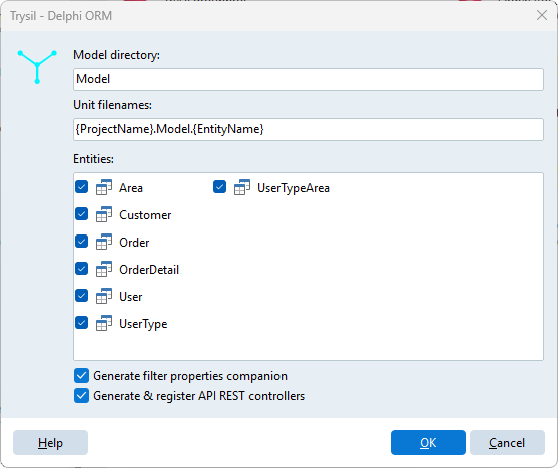
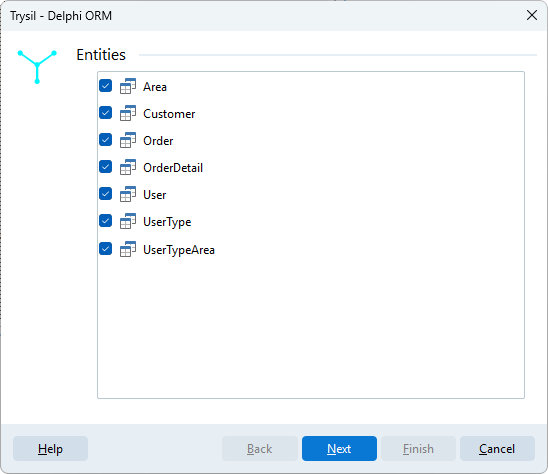
docs(expert): document the generation wizard and the settings tree

diff --git a/docs/tooling/expert/generate-model.md b/docs/tooling/expert/generate-model.md
@@ -1,24 +1,59 @@
 # Generate entity model
 
-**Trysil > Generate entity model** writes a Delphi unit for each entity of the model and adds it to the active project.
+**Trysil > Generate entity model** writes Delphi units for the entities of the model and adds them to the active project: the entity classes, the [event units](#event-units) and, in an API REST project, the [controllers](#api-rest-controllers).
 
-## The dialog
+## The wizard
 
-![Generate entity model](images/generate-model.png)
+The dialog is a wizard of four pages: **Back** and **Next** move between them, **Finish** generates. What you choose is remembered for the project in `__trysil\__settings\settings.json`; the defaults come from [Settings](settings.md).
 
-| Field | Meaning |
-|---|---|
-| Model directory | Folder of the units, relative to the project folder. Default `Model` |
-| Unit filenames | Pattern of the unit names. Default `{ProjectName}.Model.{EntityName}` |
-| Entities | The entities to generate, all ticked by default. Right click for **Select all entities** / **Unselect all entities** |
-| Generate filter properties companion | Adds a `T<Entity>Properties` record to each unit |
-| Generate & register API REST controllers | Only for projects created by the [API REST wizard](api-rest.md) |
+### Entities
 
-The unit name pattern accepts two placeholders, ignoring case: `{ProjectName}`, the name of the `.dproj` without extension, and `{EntityName}`. For the project `OrdersAPI` and the entity `Order` the default gives `OrdersAPI.Model.Order`. Nested folders are allowed in **Model directory**, for example `Source/Model`, and are created when missing.
+![Entities page](images/generate-model.png)
 
-The defaults come from [Settings](settings.md). What you choose here is remembered for the project in `__trysil\__settings\settings.json`.
+The entities to generate, all ticked by default. Right click for **Select all entities** / **Unselect all entities**. **Next** asks for at least one.
 
-If a unit with the same name is already in the project, the Expert lists the units that would be overwritten and asks before continuing.
+### Models
+
+![Models page](images/generate-model-models.png)
+
+| Field | Default | Meaning |
+|---|---|---|
+| Generate models | Ticked | Writes the entity units |
+| Directory | `Model` | Folder of the units, relative to the project folder |
+| Unit filenames | `{ProjectName}.Model.{EntityName}` | Pattern of the unit names |
+| Generate filter properties companion | Ticked | Adds a `T<Entity>Properties` record to each unit |
+
+**Unit filenames** is used even with **Generate models** not ticked: the event and controller units name the model unit in their `uses` clause.
+
+### Events
+
+![Events page](images/generate-model-events.png)
+
+| Field | Default | Meaning |
+|---|---|---|
+| Generate & register events | Not ticked | Writes an [event unit](#event-units) for each entity that has none yet |
+| Directory | `Events` | Folder of the units, relative to the project folder |
+| Unit filenames | `{ProjectName}.Event.{EntityName}` | Pattern of the unit names |
+
+### Controllers
+
+![Controllers page](images/generate-model-controllers.png)
+
+Shown only in a project created by the [API REST wizard](api-rest.md); in any other project the wizard skips it and **Finish** is on the Events page.
+
+| Field | Default | Meaning |
+|---|---|---|
+| Generate & register controllers | Ticked | Writes and registers the [controllers](#api-rest-controllers) |
+| Directory | `Controllers` | Folder of the units, relative to the project folder |
+| Unit filenames | `{ProjectName}.Controller.{EntityName}` | Pattern of the unit names |
+
+### Finish
+
+At least one of models, events and controllers has to be ticked. Each can be generated on its own: the events or the controllers of entities whose model units are already there, for instance.
+
+The unit name patterns accept two placeholders, ignoring case: `{ProjectName}`, the name of the `.dproj` without extension, and `{EntityName}`. For the project `OrdersAPI` and the entity `Order` the default gives `OrdersAPI.Model.Order`. Nested folders are allowed in the directories, for example `Source/Model`, and are created when missing.
+
+If a model or controller unit with the same name is already in the project, the Expert lists the units that would be overwritten and asks before continuing. Event units are never overwritten.
 
 ## What is generated
 
@@ -96,7 +131,45 @@ When the database changes, regenerate the units of the entities that changed: th
 - calculated properties and helper methods;
 - an event class tied to the entity with `[TInsertEvent]`, `[TUpdateEvent]` or `[TDeleteEvent]`, which has to live in the unit of the entity.
 
-Keep the model units as the Expert writes them, and put the code you write in units of your own. Business rules go in a `TTEntityEvents<T>` registered with `TTEventRegistration.RegisterEvents<T, E>` from the unit that holds them: the entity knows nothing of it, so regenerating the entity leaves it untouched. See [Registering events without attributes](../../guide/events.md#registering-events-without-attributes).
+Keep the model units as the Expert writes them, and put the code you write in units of your own. Business rules go in a `TTEntityEvents<T>` registered with `TTEventRegistration.RegisterEvents<T, E>` from the unit that holds them: the entity knows nothing of it, so regenerating the entity leaves it untouched. See [Registering events without attributes](../../guide/events.md#registering-events-without-attributes). The **Events** page of the wizard writes that unit for you.
+
+## Event units
+
+With **Generate & register events** ticked, the Expert writes for each selected entity a unit with an empty `TTEntityEvents<T>` and its registration:
+
+```delphi
+unit OrdersAPI.Event.Order;
+
+interface
+
+uses
+  System.Classes,
+  System.SysUtils,
+  Trysil.Exceptions,
+  Trysil.Events,
+
+  OrdersAPI.Model.Order;
+
+type
+
+{ TOrderEvents }
+
+  TOrderEvents = class(TTEntityEvents<TOrder>)
+  end;
+
+implementation
+
+initialization
+  TTEventRegistration.RegisterEvents<TOrder, TOrderEvents>;
+
+end.
+```
+
+Override `BeforeInsert`, `AfterInsert`, `BeforeUpdate`, `AfterUpdate`, `BeforeDelete` or `AfterDelete` in it to write the rules.
+
+- **An event unit is written once.** If the file is already on disk, or the unit is already in the project, the entity is skipped without a question: the unit is yours from the moment it is created.
+- **The unit is added to the project.** The registration runs in its `initialization`, and a unit outside the project would never run it: its events would silently not fire. Do not remove it from the project.
+- **Generate it only where there are rules.** An entity with registered events creates an event object at every insert, update and delete, even when the class is empty.
 
 ## Filter properties companion
 
@@ -135,9 +208,9 @@ Entity and entity list columns have no entry in the record.
 
 ## API REST controllers
 
-In a project created by the [API REST wizard](api-rest.md) the option **Generate & register API REST controllers** is enabled; in any other project it is greyed out. When ticked, for each selected entity the Expert also:
+In a project created by the [API REST wizard](api-rest.md) the **Controllers** page is shown; in any other project it is skipped. With **Generate & register controllers** ticked, for each selected entity the Expert:
 
-1. writes a controller unit `<Project>.Controller.<Entity>` in the `Controllers` folder of the project:
+1. writes a controller unit, named and placed as the **Controllers** page says (by default `<Project>.Controller.<Entity>` in the `Controllers` folder):
 
     ```delphi
     [TUri('/order')]
@@ -147,4 +220,4 @@ In a project created by the [API REST wizard](api-rest.md) the option **Generate
 
     The URI is the entity name in lower case;
 
-2. opens `<Project>.Http` and registers the controllers: it adds the units to its `uses` clause and a `Server.RegisterController<TOrderController>();` line to `RegisterEntityControllers`. Units and registrations already there are not added again, so the model can be regenerated with the option ticked.
+2. opens `<Project>.Http` and registers the controllers: it adds the units to its `uses` clause and a `Server.RegisterController<TOrderController>();` line to `RegisterEntityControllers`. Units and registrations already there are not added again, so the controllers can be regenerated.

diff --git a/CHANGELOG.md b/CHANGELOG.md
@@ -35,6 +35,12 @@ Not released yet: what this section describes is on `master` and in no tag.
 
 - **`TTHttpServer<C>.AddBindAddress` chooses the addresses the server listens on.** `Start` created a single binding with the port alone, so the server listened on every IPv4 interface and nothing in the API could narrow it: the documentation recommended binding to loopback behind a reverse proxy, and there was no way to do it, so anyone who could reach the port from the network walked past the proxy - no TLS, no path filtering. `AddBindAddress` takes an IPv4 or IPv6 literal (`'127.0.0.1'`, `'::1'`) and can be called once per address; `Start` binds each of them on `Port`, with the IP version the address carries. A host name, an address with a port or brackets, anything that is not an IP literal, an address added twice, and a call after `Start` raise `ETHttpServerException`, with the new messages `SNotValidBindAddress` and `SDuplicateBindAddress` - a host that translates the framework messages has two strings to add. With no address added the server binds as before, on every IPv4 interface: nothing changes for code that does not call it
 
+### Expert
+
+- **The "Generate entity model" dialog is a wizard and writes the event units too.** Its pages are Entities, Models, Events and Controllers, the last shown only in a project created by the API REST wizard. **Generate & register events** writes, for each selected entity that has none yet, a unit with an empty `TTEntityEvents<T>` and its `TTEventRegistration.RegisterEvents<T, E>` in the `initialization`, and adds it to the project: it is never overwritten, so the business rules written in it survive the regeneration of the model. Models, events and controllers can each be generated on its own, and at least one is asked for.
+- **Folders and unit names of events and controllers are settings.** Like the models, each has a directory and a unit filename pattern, `Events` / `{ProjectName}.Event.{EntityName}` and `Controllers` / `{ProjectName}.Controller.{EntityName}` by default: in **Settings** for every project, in the wizard for the current one. The controllers had both written in the code. The Settings dialog chooses its page from a tree on the left.
+- **The panels of the Expert dialogs take the colours they were designed with.** The content area had the colour of the buttons bar and the buttons bar that of the content area.
+
 ## 2.0.0 - Audit Integrity, Directional JSon Attributes & Fail-Safe Startup
 
 *2026-09-20*

diff --git a/docs/tooling/expert/settings.md b/docs/tooling/expert/settings.md
@@ -4,14 +4,20 @@
 
 ![Settings](images/settings.png)
 
-| Group | Field | Default | Meaning |
+The tree on the left chooses the page: **Trysil**, **Models**, **Events** or **Controllers**.
+
+| Page | Field | Default | Meaning |
 |---|---|---|---|
 | Trysil | Directory | `__trysil` | Folder, relative to the project, where the entity model is saved |
-| Entities | Directory | `Model` | Default folder of the generated entity units |
-| Entities | Unit filenames | `{ProjectName}.Model.{EntityName}` | Default pattern of the unit names |
+| Models | Directory | `Model` | Default folder of the generated entity units |
+| Models | Unit filenames | `{ProjectName}.Model.{EntityName}` | Default pattern of the unit names |
+| Events | Directory | `Events` | Default folder of the generated event units |
+| Events | Unit filenames | `{ProjectName}.Event.{EntityName}` | Default pattern of the event unit names |
+| Controllers | Directory | `Controllers` | Default folder of the generated controller units |
+| Controllers | Unit filenames | `{ProjectName}.Controller.{EntityName}` | Default pattern of the controller unit names |
 
 ## Defaults and project settings
 
-**Entities > Directory** and **Unit filenames** are only the starting values. The first time you confirm [Generate entity model](generate-model.md) in a project, the values in that dialog are saved with the project, in `__trysil\__settings\settings.json`, and from then on the project uses its own values: changing the settings later does not affect it.
+The directories and unit filenames of **Models**, **Events** and **Controllers** are only the starting values. The first time you confirm [Generate entity model](generate-model.md) in a project, the values in that dialog are saved with the project, in `__trysil\__settings\settings.json`, and from then on the project uses its own values: changing the settings later does not affect it. A project saved before events and controllers had their own settings takes them from here until its next generation.
 
 **Trysil > Directory** is different: it is read every time, for every project. If you change it, the Expert looks for the model of all your projects in the new folder, so set it once, before you start, and leave it.

diff --git a/docs/tooling/expert/index.md b/docs/tooling/expert/index.md
@@ -22,7 +22,7 @@ Once installed, the Expert adds a **Trysil** menu to the IDE main menu, just bef
 |---|---|---|
 | [Design entity model](design.md) | Opens the visual designer for entities and columns | Yes |
 | [Generate DDL script](generate-sql.md) | Writes the CREATE script, or the ALTER script from a reference database | Yes |
-| [Generate entity model](generate-model.md) | Writes the entity units, and optionally the API REST controllers | Yes |
+| [Generate entity model](generate-model.md) | Writes the entity units, and optionally their event units and the API REST controllers | Yes |
 | [Install AI assistant skills](../ai-skills.md) | Writes the AI assistant skills into the project | Yes |
 | [Create new Trysil API REST](api-rest.md) | Creates a new API REST project from the template | No, only when **no** project is open |
 | [Settings](settings.md) | Default folders and unit names | Yes |

diff --git a/docs/tooling/expert/api-rest.md b/docs/tooling/expert/api-rest.md
@@ -91,4 +91,4 @@ The generated project already has the entity model of its own tables (for exampl
 
 1. [Design entity model](design.md) to add them;
 2. [Generate DDL script](generate-sql.md) to create the tables;
-3. [Generate entity model](generate-model.md) with **Generate & register API REST controllers** ticked: each entity gets a read/write controller, registered in the server.
+3. [Generate entity model](generate-model.md) with **Generate & register controllers** ticked on the Controllers page: each entity gets a read/write controller, registered in the server.
